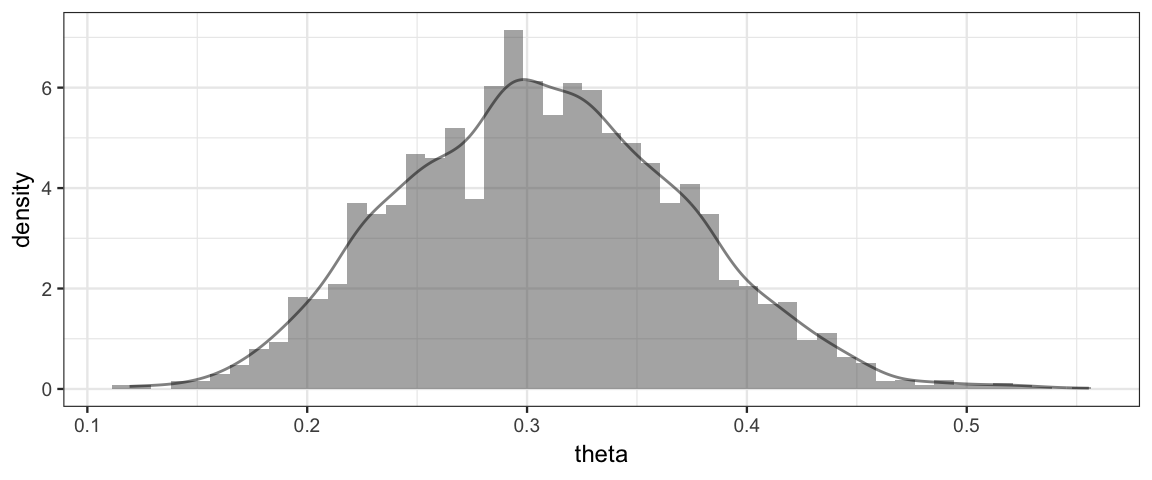
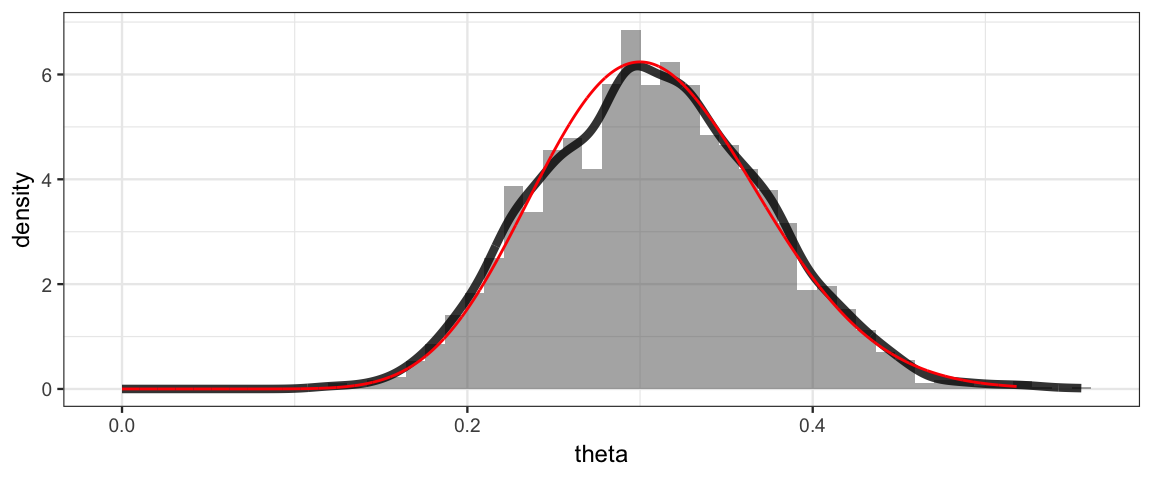
add resampling from grid example and problem

diff --git a/docs/jags-just-another-gibbs-sampler.html b/docs/jags-just-another-gibbs-sampler.html
@@ -25,7 +25,7 @@
 <meta name="author" content="R Pruim">
 
 
-<meta name="date" content="2019-02-24">
+<meta name="date" content="2019-02-25">
 
   <meta name="viewport" content="width=device-width, initial-scale=1">
   <meta name="apple-mobile-web-app-capable" content="yes">
@@ -273,9 +273,10 @@ code span.wa { color: #60a0b0; font-weight: bold; font-style: italic; } /* Warni
 </ul></li>
 <li class="chapter" data-level="8.3" data-path="jags-just-another-gibbs-sampler.html"><a href="jags-just-another-gibbs-sampler.html#extracting-information-from-a-jags-run"><i class="fa fa-check"></i><b>8.3</b> Extracting information from a JAGS run</a><ul>
 <li class="chapter" data-level="8.3.1" data-path="jags-just-another-gibbs-sampler.html"><a href="jags-just-another-gibbs-sampler.html#posterior-1"><i class="fa fa-check"></i><b>8.3.1</b> posterior()</a></li>
-<li class="chapter" data-level="8.3.2" data-path="jags-just-another-gibbs-sampler.html"><a href="jags-just-another-gibbs-sampler.html#using-coda"><i class="fa fa-check"></i><b>8.3.2</b> Using coda</a></li>
-<li class="chapter" data-level="8.3.3" data-path="jags-just-another-gibbs-sampler.html"><a href="jags-just-another-gibbs-sampler.html#using-bayesplot"><i class="fa fa-check"></i><b>8.3.3</b> Using bayesplot</a></li>
-<li class="chapter" data-level="8.3.4" data-path="jags-just-another-gibbs-sampler.html"><a href="jags-just-another-gibbs-sampler.html#using-kruschkes-functions"><i class="fa fa-check"></i><b>8.3.4</b> Using Kruschke’s functions</a></li>
+<li class="chapter" data-level="8.3.2" data-path="jags-just-another-gibbs-sampler.html"><a href="jags-just-another-gibbs-sampler.html#side-note-posterior-sampling-and-the-grid-method"><i class="fa fa-check"></i><b>8.3.2</b> Side note: posterior sampling and the grid method</a></li>
+<li class="chapter" data-level="8.3.3" data-path="jags-just-another-gibbs-sampler.html"><a href="jags-just-another-gibbs-sampler.html#using-coda"><i class="fa fa-check"></i><b>8.3.3</b> Using coda</a></li>
+<li class="chapter" data-level="8.3.4" data-path="jags-just-another-gibbs-sampler.html"><a href="jags-just-another-gibbs-sampler.html#using-bayesplot"><i class="fa fa-check"></i><b>8.3.4</b> Using bayesplot</a></li>
+<li class="chapter" data-level="8.3.5" data-path="jags-just-another-gibbs-sampler.html"><a href="jags-just-another-gibbs-sampler.html#using-kruschkes-functions"><i class="fa fa-check"></i><b>8.3.5</b> Using Kruschke’s functions</a></li>
 </ul></li>
 <li class="chapter" data-level="8.4" data-path="jags-just-another-gibbs-sampler.html"><a href="jags-just-another-gibbs-sampler.html#optional-arguments-to-jags"><i class="fa fa-check"></i><b>8.4</b> Optional arguments to jags()</a><ul>
 <li class="chapter" data-level="8.4.1" data-path="jags-just-another-gibbs-sampler.html"><a href="jags-just-another-gibbs-sampler.html#number-and-size-of-chains"><i class="fa fa-check"></i><b>8.4.1</b> Number and size of chains</a></li>
@@ -463,7 +464,7 @@ bern_jags &lt;-<span class="st"> </span>
 ## Initializing model</code></pre>
 <p>Let’s take a quick look at what we have.</p>
 <pre class="sourceCode r"><code class="sourceCode r">bern_jags</code></pre>
-<pre><code>## Inference for Bugs model at &quot;/var/folders/py/txwd26jx5rq83f4nn0f5fmmm0000gn/T//RtmpfMGPm8/model1325458dec42.txt&quot;, fit using jags,
+<pre><code>## Inference for Bugs model at &quot;/var/folders/py/txwd26jx5rq83f4nn0f5fmmm0000gn/T//RtmpV0HjXw/model180dd4bb656ac.txt&quot;, fit using jags,
 ##  3 chains, each with 2000 iterations (first 1000 discarded)
 ##  n.sims = 3000 iterations saved
 ##          mu.vect sd.vect   2.5%    25%    50%    75%  97.5%  Rhat n.eff
@@ -502,7 +503,9 @@ greater than 1.1 is a cause for concern.</li>
 <div id="posterior-1" class="section level3">
 <h3><span class="header-section-number">8.3.1</span> posterior()</h3>
 <p>We can plot the posterior distribution, using <code>posterior()</code> to extract
-the posterior samples as a data frame.</p>
+the posterior samples as a data frame. Since we know the posterior
+distribution should be Beta(16, 36), we’ll add that to our plot as a
+reference to see how well our posterior sample is doing.</p>
 <pre class="sourceCode r"><code class="sourceCode r"><span class="kw">library</span>(CalvinBayes)
 <span class="kw">head</span>(<span class="kw">posterior</span>(bern_jags))</code></pre>
 <table>
@@ -540,11 +543,35 @@ the posterior samples as a data frame.</p>
 </tbody>
 </table>
 <pre class="sourceCode r"><code class="sourceCode r"><span class="kw">gf_dhistogram</span>(<span class="op">~</span>theta, <span class="dt">data =</span> <span class="kw">posterior</span>(bern_jags), <span class="dt">bins =</span> <span class="dv">50</span>) <span class="op">%&gt;%</span><span class="st"> </span>
-<span class="kw">gf_dens</span>(<span class="op">~</span>theta, <span class="dt">data =</span> <span class="kw">posterior</span>(bern_jags))</code></pre>
+<span class="st">  </span><span class="kw">gf_dens</span>(<span class="op">~</span>theta, <span class="dt">size =</span> <span class="fl">1.5</span>, <span class="dt">alpha =</span> <span class="fl">0.8</span>) <span class="op">%&gt;%</span>
+<span class="st">  </span><span class="kw">gf_dist</span>(<span class="st">&quot;beta&quot;</span>, <span class="dt">shape1 =</span> <span class="dv">16</span>, <span class="dt">shape2 =</span> <span class="dv">36</span>, <span class="dt">color =</span> <span class="st">&quot;red&quot;</span>)</code></pre>
 <p><img src="Redoing_files/figure-html/ch08-berg-jags-post-1.png" width="576" /></p>
 </div>
+<div id="side-note-posterior-sampling-and-the-grid-method" class="section level3">
+<h3><span class="header-section-number">8.3.2</span> Side note: posterior sampling and the grid method</h3>
+<p>It is also possible to generate posterior samples when we use the grid method.
+The mosaic package include the <code>resample()</code> function that will sample rows
+of a data frame with replacement using specified probabilities
+(given by the posterior, for example). Here’s how that works.</p>
+<pre class="sourceCode r"><code class="sourceCode r">Grid &lt;-<span class="st"> </span>
+<span class="st">  </span><span class="kw">expand.grid</span>(
+    <span class="dt">theta =</span> <span class="kw">seq</span>(<span class="dv">0</span>, <span class="dv">1</span>, <span class="dt">by =</span> <span class="fl">0.001</span>)
+  ) <span class="op">%&gt;%</span>
+<span class="st">  </span><span class="kw">mutate</span>(
+    <span class="dt">prior =</span> <span class="kw">dbeta</span>(theta, <span class="dv">1</span>, <span class="dv">1</span>),
+    <span class="dt">likelihood =</span> <span class="kw">dbinom</span>(<span class="dv">15</span>, <span class="dv">50</span>, theta),
+    <span class="dt">posterior =</span> prior <span class="op">*</span><span class="st"> </span>likelihood,
+    <span class="dt">posterior =</span> posterior <span class="op">/</span><span class="st"> </span><span class="kw">sum</span>(posterior)
+  )
+
+Posterior &lt;-<span class="st"> </span><span class="kw">resample</span>(Grid, <span class="dt">size =</span> <span class="dv">5000</span>, <span class="dt">prob =</span> Grid<span class="op">$</span>posterior)
+<span class="kw">gf_dhistogram</span>(<span class="op">~</span><span class="st"> </span>theta, <span class="dt">data =</span> Posterior, <span class="dt">bins =</span> <span class="dv">50</span>) <span class="op">%&gt;%</span>
+<span class="st">  </span><span class="kw">gf_dens</span>(<span class="op">~</span>theta, <span class="dt">size =</span> <span class="fl">1.5</span>, <span class="dt">alpha =</span> <span class="fl">0.8</span>) <span class="op">%&gt;%</span>
+<span class="st">  </span><span class="kw">gf_dist</span>(<span class="st">&quot;beta&quot;</span>, <span class="dt">shape1 =</span> <span class="dv">16</span>, <span class="dt">shape2 =</span> <span class="dv">36</span>, <span class="dt">color =</span> <span class="st">&quot;red&quot;</span>)</code></pre>
+<p><img src="Redoing_files/figure-html/ch08-grid-resampling-1.png" width="576" /></p>
+</div>
 <div id="using-coda" class="section level3">
-<h3><span class="header-section-number">8.3.2</span> Using coda</h3>
+<h3><span class="header-section-number">8.3.3</span> Using coda</h3>
 <p>The <code>coda</code> package provides output analysis and diagnostics for
 MCMC algorithms. In order to use it, we must convert our JAGS object
 into something <code>coda</code> recognizes.
@@ -558,7 +585,7 @@ in the same thing – posterior samples in a format that <code>coda</code> expec
 they have different starting points.</p>
 </div>
 <div id="using-bayesplot" class="section level3">
-<h3><span class="header-section-number">8.3.3</span> Using bayesplot</h3>
+<h3><span class="header-section-number">8.3.4</span> Using bayesplot</h3>
 <p>The mcmc object we extracted with <code>as.mcmc()</code> can be used by the
 utilities in the <code>bayesplot()</code>. Here, for example is the <code>bayesplot</code>
 plot of the posterior distribution for theta.
@@ -584,7 +611,7 @@ so interoperate well with <code>ggformula</code>.</p>
 <p>We will encounter additional plots from <code>bayesplot</code> as we go along.</p>
 </div>
 <div id="using-kruschkes-functions" class="section level3">
-<h3><span class="header-section-number">8.3.4</span> Using Kruschke’s functions</h3>
+<h3><span class="header-section-number">8.3.5</span> Using Kruschke’s functions</h3>
 <p>I have put (modified versions of) some of functions from Kruschke’s book
 into the <code>CalvinBayes</code> package so that you don’t have to source his files
 to use them.</p>
@@ -1013,7 +1040,8 @@ for <span class="math inline">\(\theta_1 - \theta_2\)</span>, and we might like 
 <h2><span class="header-section-number">8.6</span> Exercises</h2>
 <!-- Exercise 8.4. [Purpose: Explore the prior on a difference of parameters implied from the priors on the individual parameters.] -->
 <ol style="list-style-type: decimal">
-<li><p>You want to know who is the better free throw shooter, Alice or Bob.
+<li><p><strong>Sampling from priors.</strong>
+You want to know who is the better free throw shooter, Alice or Bob.
 You decide to have each shoot a number of shots and record their makes
 and misses. You are primarily interested in the difference between their
 free throw shooting proportions (<span class="math inline">\(\theta_2 - \theta_1\)</span>), and you are curious
@@ -1027,26 +1055,56 @@ a density plot. (In each case, assume the priors for <span class="math inline">\
 prior for <span class="math inline">\(\theta_2 - \theta_1\)</span> is?</p></li>
 <li><p>Both priors are <span class="math inline">\({\sf Beta}(0.2, 0.2)\)</span>. Explain why the prior
 for <span class="math inline">\(\theta_2 - \theta_1\)</span> looks the way it does.</p></li>
-</ol></li>
+</ol>
+<p>Hint: Don’t forget to set <code>DIC = FALSE</code> when sampling from the prior.</p></li>
 <li><p>Now suppose that Alice makes 25 out of 30 shots and Bob makes 18 out of 32.
 Is this enough evidence to conclude that Alice is the better shooter?
-Do this two ways.
-In each case, use a <span class="math inline">\({\sf Beta}(4, 2)\)</span> prior.</p>
+Do this two ways. In each case, use a <span class="math inline">\({\sf Beta}(4, 2)\)</span> prior for both
+<span class="math inline">\(\theta_1\)</span> and <span class="math inline">\(\theta_2\)</span>.</p>
 <ol style="list-style-type: lower-alpha">
 <li><p>Create data and use a model like the one used elsewhere in this chapter.
 [Hint: <code>rep()</code> is handy for creating a bunch of values that are the same.]</p></li>
-<li><p>Instead of using <code>dbern()</code>, use <code>dbin()</code> (JAGS version of the binomial distribution). This should allow you to get by with simpler data that consists
-only of the numbers 25, 30, 18, and 32.
-Note: the order of arguments for <code>dbin()</code> is probability first, then
-number of trials. This is reversed from the order in R.</p></li>
+<li><p>Instead of using <code>dbern()</code>, use <code>dbin()</code> (JAGS version of the binomial
+distribution). This should allow you to get by with simpler data that
+consists only of the numbers 25, 30, 18, and 32. Note: the order of
+arguments for <code>dbin()</code> is probability first, then number of trials. This is
+reversed from the order in R.</p></li>
 </ol></li>
 <li><p>In the previous problem, what does this prior say about
 the beliefs about Alice and Bob’s shooting before gathering data?</p></li>
 <li><p>Let’s think about Alice and Bob some more.
-We don’t know how to do this, but explain why if you knew very little about
-basketball, you might like to have a prior for <span class="math inline">\(\theta_1\)</span> and <span class="math inline">\(\theta_2\)</span>
+We don’t know how to do this yet,
+but explain why if you knew very little about basketball,
+you might like to have a prior for <span class="math inline">\(\theta_1\)</span> and <span class="math inline">\(\theta_2\)</span>
 that was not indpendent.
 How might the priors for <span class="math inline">\(\theta_1\)</span> and <span class="math inline">\(\theta_2\)</span> be related?</p></li>
+<li><p>Consider the model below.</p>
+<ol style="list-style-type: lower-alpha">
+<li><p>Create a plot of the <strong>prior</strong> distribution of
+<code>theat1</code> and <code>theta2</code>. A scatter plot with overlayed density plot
+works well. How does this prior compare to the priors in problem 1.
+(Hint: Don’t forget to use <code>DIC = FALSE</code> when sampling from the
+prior.)</p></li>
+<li><p>Fit the model to the Alice and Bob data. How does this
+choice of prior change things?</p></li>
+</ol>
+<pre class="sourceCode r"><code class="sourceCode r">diff_model &lt;-<span class="st"> </span><span class="cf">function</span>() {
+  z1 <span class="op">~</span><span class="st"> </span><span class="kw">dbin</span>(theta1, n1)
+  z2 <span class="op">~</span><span class="st"> </span><span class="kw">dbin</span>(theta2, n2)
+  theta2 &lt;-<span class="st"> </span>theta1 <span class="op">+</span><span class="st"> </span>diff
+  theta1 <span class="op">~</span><span class="st"> </span><span class="kw">dbeta</span>(<span class="dv">4</span>, <span class="dv">2</span>)
+  diff <span class="op">~</span><span class="st"> </span><span class="kw">dnorm</span>(<span class="dv">0</span>, <span class="dv">400</span>)  <span class="co"># Normal with mean 0 and sd = 0.05</span>
+}
+
+diff_jags &lt;-
+<span class="st">  </span><span class="kw">jags.parallel</span>(
+    <span class="dt">model =</span> diff_model,
+    <span class="dt">data  =</span> <span class="kw">list</span>(<span class="dt">n1 =</span> <span class="dv">30</span>, <span class="dt">z1 =</span> <span class="dv">25</span>, <span class="dt">n2 =</span> <span class="dv">32</span>, <span class="dt">z2 =</span> <span class="dv">18</span>),
+    <span class="dt">parameters.to.save =</span> <span class="kw">c</span>(<span class="st">&quot;theta1&quot;</span>, <span class="st">&quot;theta2&quot;</span>, <span class="st">&quot;diff&quot;</span>),
+    <span class="dt">n.iter =</span> <span class="dv">5000</span>,
+    <span class="dt">n.chains =</span> <span class="dv">4</span>
+  )</code></pre></li>
+<li><p>Redo problem 5 using the grid method.</p></li>
 </ol>
 
 </div>
